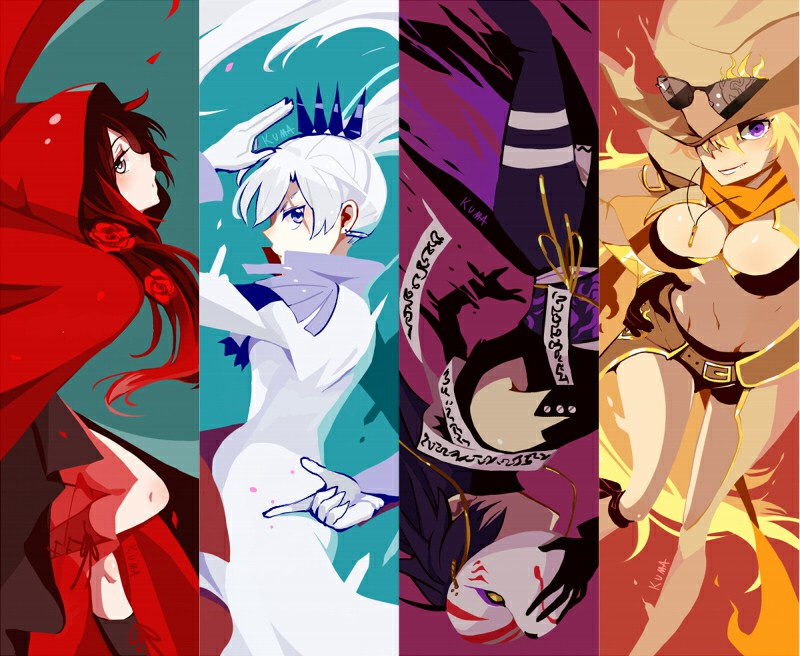
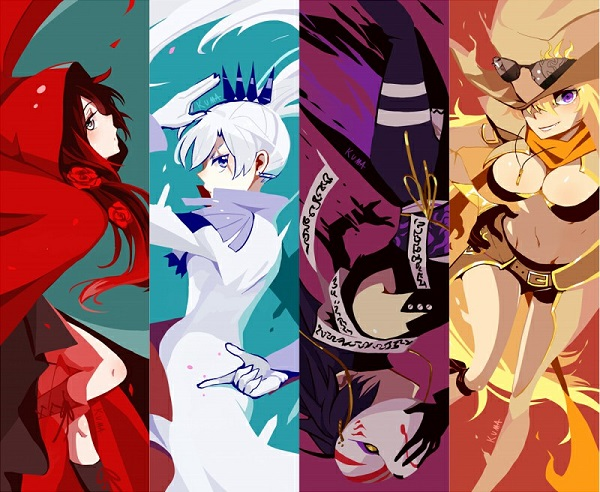
Site updated: 2020-03-11 23:21:26

diff --git a/index.html b/index.html
@@ -27,7 +27,7 @@
 <meta name="twitter:card" content="summary">
   <link rel="stylesheet" href="https://cdn.jsdelivr.net/combine/gh/nexmoe/nexmoe.github.io@latest/css/style.css,npm/highlight.js@9.15.8/styles/atom-one-dark.css,gh/nexmoe/nexmoe.github.io@latest/lib/mdui_043tiny/css/mdui.css,gh/nexmoe/nexmoe.github.io@latest/lib/iconfont/iconfont.css" crossorigin>
   
-  <!--<link rel="stylesheet" href="/css/style.css?v=1583939131281">-->
+  <!--<link rel="stylesheet" href="/css/style.css?v=1583940027128">-->
 
    
     <style>
@@ -243,8 +243,8 @@
     <div class="nexmoe-post">
         <a href="/archives/af935060.html">
             
-                <div class="nexmoe-post-cover mdui-ripple" style="padding-bottom: 56.25%;"> 
-                    <img data-src="/img/0002.png" data-sizes="auto" alt="测试页面" class="lazyload">
+                <div class="nexmoe-post-cover mdui-ripple" style="padding-bottom: 56.2037037037037%;"> 
+                    <img data-src="/img/0002.jpg" data-sizes="auto" alt="测试页面" class="lazyload">
                     <h1>测试页面</h1>
                 </div>
             
@@ -322,7 +322,7 @@
   </div>
   <script src="https://cdn.jsdelivr.net/combine/npm/lazysizes@5.1.0/lazysizes.min.js,gh/highlightjs/cdn-release@9.15.8/build/highlight.min.js,npm/mdui@0.4.3/dist/js/mdui.min.js,gh/nexmoe/nexmoe.github.io@latest/js/app.js"></script>
 <script>hljs.initHighlightingOnLoad();</script>
-<!--<script src="/js/app.js?v=1583939131283"></script>-->
+<!--<script src="/js/app.js?v=1583940027131"></script>-->
 
 
     <script src="https://cdn.jsdelivr.net/gh/xtaodada/xtaodada.github.io@0.0.2/copy.js"></script>

diff --git a/archives/af935060.html b/archives/af935060.html
@@ -26,7 +26,7 @@
 <meta name="twitter:card" content="summary">
   <link rel="stylesheet" href="https://cdn.jsdelivr.net/combine/gh/nexmoe/nexmoe.github.io@latest/css/style.css,npm/highlight.js@9.15.8/styles/atom-one-dark.css,gh/nexmoe/nexmoe.github.io@latest/lib/mdui_043tiny/css/mdui.css,gh/nexmoe/nexmoe.github.io@latest/lib/iconfont/iconfont.css" crossorigin>
   
-  <!--<link rel="stylesheet" href="/css/style.css?v=1583939131255">-->
+  <!--<link rel="stylesheet" href="/css/style.css?v=1583940027104">-->
 
    
     <style>
@@ -239,8 +239,8 @@
     <div class="nexmoe-primary">
         <div class="nexmoe-post">
   
-      <div class="nexmoe-post-cover" style="padding-bottom: 56.25%;"> 
-          <img data-src="/img/0002.png" data-sizes="auto" alt="测试页面" class="lazyload">
+      <div class="nexmoe-post-cover" style="padding-bottom: 56.2037037037037%;"> 
+          <img data-src="/img/0002.jpg" data-sizes="auto" alt="测试页面" class="lazyload">
           <h1>测试页面</h1>
       </div>
   
@@ -310,7 +310,7 @@
   </div>
   <script src="https://cdn.jsdelivr.net/combine/npm/lazysizes@5.1.0/lazysizes.min.js,gh/highlightjs/cdn-release@9.15.8/build/highlight.min.js,npm/mdui@0.4.3/dist/js/mdui.min.js,gh/nexmoe/nexmoe.github.io@latest/js/app.js"></script>
 <script>hljs.initHighlightingOnLoad();</script>
-<!--<script src="/js/app.js?v=1583939131262"></script>-->
+<!--<script src="/js/app.js?v=1583940027106"></script>-->
 
 
     <script src="https://cdn.jsdelivr.net/gh/xtaodada/xtaodada.github.io@0.0.2/copy.js"></script>

diff --git a/archives/e5dfb256.html b/archives/e5dfb256.html
@@ -28,7 +28,7 @@
 <meta name="twitter:image" content="https://xiaopi3.gitee.io/archives/e5dfb256/rwby.jpg">
   <link rel="stylesheet" href="https://cdn.jsdelivr.net/combine/gh/nexmoe/nexmoe.github.io@latest/css/style.css,npm/highlight.js@9.15.8/styles/atom-one-dark.css,gh/nexmoe/nexmoe.github.io@latest/lib/mdui_043tiny/css/mdui.css,gh/nexmoe/nexmoe.github.io@latest/lib/iconfont/iconfont.css" crossorigin>
   
-  <!--<link rel="stylesheet" href="/css/style.css?v=1583939131265">-->
+  <!--<link rel="stylesheet" href="/css/style.css?v=1583940027111">-->
 
    
     <style>
@@ -375,7 +375,7 @@ public class QuickController{
   </div>
   <script src="https://cdn.jsdelivr.net/combine/npm/lazysizes@5.1.0/lazysizes.min.js,gh/highlightjs/cdn-release@9.15.8/build/highlight.min.js,npm/mdui@0.4.3/dist/js/mdui.min.js,gh/nexmoe/nexmoe.github.io@latest/js/app.js"></script>
 <script>hljs.initHighlightingOnLoad();</script>
-<!--<script src="/js/app.js?v=1583939131267"></script>-->
+<!--<script src="/js/app.js?v=1583940027114"></script>-->
 
 
     <script src="https://cdn.jsdelivr.net/gh/xtaodada/xtaodada.github.io@0.0.2/copy.js"></script>

diff --git a/PY.html b/PY.html
@@ -31,7 +31,7 @@
 <meta name="twitter:image" content="https://cdn.jsdelivr.net/gh/ritcheeqing/resources@latest/images/avatar.png">
   <link rel="stylesheet" href="https://cdn.jsdelivr.net/combine/gh/nexmoe/nexmoe.github.io@latest/css/style.css,npm/highlight.js@9.15.8/styles/atom-one-dark.css,gh/nexmoe/nexmoe.github.io@latest/lib/mdui_043tiny/css/mdui.css,gh/nexmoe/nexmoe.github.io@latest/lib/iconfont/iconfont.css" crossorigin>
   
-  <!--<link rel="stylesheet" href="/css/style.css?v=1583939131251">-->
+  <!--<link rel="stylesheet" href="/css/style.css?v=1583940027101">-->
 
    
     <style>
@@ -330,7 +330,7 @@
   </div>
   <script src="https://cdn.jsdelivr.net/combine/npm/lazysizes@5.1.0/lazysizes.min.js,gh/highlightjs/cdn-release@9.15.8/build/highlight.min.js,npm/mdui@0.4.3/dist/js/mdui.min.js,gh/nexmoe/nexmoe.github.io@latest/js/app.js"></script>
 <script>hljs.initHighlightingOnLoad();</script>
-<!--<script src="/js/app.js?v=1583939131254"></script>-->
+<!--<script src="/js/app.js?v=1583940027103"></script>-->
 
 
     <script src="https://cdn.jsdelivr.net/gh/xtaodada/xtaodada.github.io@0.0.2/copy.js"></script>

diff --git a/about.html b/about.html
@@ -29,7 +29,7 @@
 <meta name="twitter:card" content="summary">
   <link rel="stylesheet" href="https://cdn.jsdelivr.net/combine/gh/nexmoe/nexmoe.github.io@latest/css/style.css,npm/highlight.js@9.15.8/styles/atom-one-dark.css,gh/nexmoe/nexmoe.github.io@latest/lib/mdui_043tiny/css/mdui.css,gh/nexmoe/nexmoe.github.io@latest/lib/iconfont/iconfont.css" crossorigin>
   
-  <!--<link rel="stylesheet" href="/css/style.css?v=1583939131242">-->
+  <!--<link rel="stylesheet" href="/css/style.css?v=1583940027091">-->
 
    
     <style>
@@ -311,7 +311,7 @@
   </div>
   <script src="https://cdn.jsdelivr.net/combine/npm/lazysizes@5.1.0/lazysizes.min.js,gh/highlightjs/cdn-release@9.15.8/build/highlight.min.js,npm/mdui@0.4.3/dist/js/mdui.min.js,gh/nexmoe/nexmoe.github.io@latest/js/app.js"></script>
 <script>hljs.initHighlightingOnLoad();</script>
-<!--<script src="/js/app.js?v=1583939131249"></script>-->
+<!--<script src="/js/app.js?v=1583940027100"></script>-->
 
 
     <script src="https://cdn.jsdelivr.net/gh/xtaodada/xtaodada.github.io@0.0.2/copy.js"></script>

diff --git a/archives/2020/03/index.html b/archives/2020/03/index.html
@@ -27,7 +27,7 @@
 <meta name="twitter:card" content="summary">
   <link rel="stylesheet" href="https://cdn.jsdelivr.net/combine/gh/nexmoe/nexmoe.github.io@latest/css/style.css,npm/highlight.js@9.15.8/styles/atom-one-dark.css,gh/nexmoe/nexmoe.github.io@latest/lib/mdui_043tiny/css/mdui.css,gh/nexmoe/nexmoe.github.io@latest/lib/iconfont/iconfont.css" crossorigin>
   
-  <!--<link rel="stylesheet" href="/css/style.css?v=1583939131278">-->
+  <!--<link rel="stylesheet" href="/css/style.css?v=1583940027125">-->
 
    
     <style>
@@ -297,7 +297,7 @@
   </div>
   <script src="https://cdn.jsdelivr.net/combine/npm/lazysizes@5.1.0/lazysizes.min.js,gh/highlightjs/cdn-release@9.15.8/build/highlight.min.js,npm/mdui@0.4.3/dist/js/mdui.min.js,gh/nexmoe/nexmoe.github.io@latest/js/app.js"></script>
 <script>hljs.initHighlightingOnLoad();</script>
-<!--<script src="/js/app.js?v=1583939131280"></script>-->
+<!--<script src="/js/app.js?v=1583940027127"></script>-->
 
 
     <script src="https://cdn.jsdelivr.net/gh/xtaodada/xtaodada.github.io@0.0.2/copy.js"></script>

diff --git a/archives/2020/index.html b/archives/2020/index.html
@@ -27,7 +27,7 @@
 <meta name="twitter:card" content="summary">
   <link rel="stylesheet" href="https://cdn.jsdelivr.net/combine/gh/nexmoe/nexmoe.github.io@latest/css/style.css,npm/highlight.js@9.15.8/styles/atom-one-dark.css,gh/nexmoe/nexmoe.github.io@latest/lib/mdui_043tiny/css/mdui.css,gh/nexmoe/nexmoe.github.io@latest/lib/iconfont/iconfont.css" crossorigin>
   
-  <!--<link rel="stylesheet" href="/css/style.css?v=1583939131274">-->
+  <!--<link rel="stylesheet" href="/css/style.css?v=1583940027121">-->
 
    
     <style>
@@ -297,7 +297,7 @@
   </div>
   <script src="https://cdn.jsdelivr.net/combine/npm/lazysizes@5.1.0/lazysizes.min.js,gh/highlightjs/cdn-release@9.15.8/build/highlight.min.js,npm/mdui@0.4.3/dist/js/mdui.min.js,gh/nexmoe/nexmoe.github.io@latest/js/app.js"></script>
 <script>hljs.initHighlightingOnLoad();</script>
-<!--<script src="/js/app.js?v=1583939131276"></script>-->
+<!--<script src="/js/app.js?v=1583940027123"></script>-->
 
 
     <script src="https://cdn.jsdelivr.net/gh/xtaodada/xtaodada.github.io@0.0.2/copy.js"></script>

diff --git a/archives/4a17b156.html b/archives/4a17b156.html
@@ -26,7 +26,7 @@
 <meta name="twitter:card" content="summary">
   <link rel="stylesheet" href="https://cdn.jsdelivr.net/combine/gh/nexmoe/nexmoe.github.io@latest/css/style.css,npm/highlight.js@9.15.8/styles/atom-one-dark.css,gh/nexmoe/nexmoe.github.io@latest/lib/mdui_043tiny/css/mdui.css,gh/nexmoe/nexmoe.github.io@latest/lib/iconfont/iconfont.css" crossorigin>
   
-  <!--<link rel="stylesheet" href="/css/style.css?v=1583939131268">-->
+  <!--<link rel="stylesheet" href="/css/style.css?v=1583940027115">-->
 
    
     <style>
@@ -318,7 +318,7 @@
   </div>
   <script src="https://cdn.jsdelivr.net/combine/npm/lazysizes@5.1.0/lazysizes.min.js,gh/highlightjs/cdn-release@9.15.8/build/highlight.min.js,npm/mdui@0.4.3/dist/js/mdui.min.js,gh/nexmoe/nexmoe.github.io@latest/js/app.js"></script>
 <script>hljs.initHighlightingOnLoad();</script>
-<!--<script src="/js/app.js?v=1583939131270"></script>-->
+<!--<script src="/js/app.js?v=1583940027117"></script>-->
 
 
     <script src="https://cdn.jsdelivr.net/gh/xtaodada/xtaodada.github.io@0.0.2/copy.js"></script>

diff --git a/archives/index.html b/archives/index.html
@@ -27,7 +27,7 @@
 <meta name="twitter:card" content="summary">
   <link rel="stylesheet" href="https://cdn.jsdelivr.net/combine/gh/nexmoe/nexmoe.github.io@latest/css/style.css,npm/highlight.js@9.15.8/styles/atom-one-dark.css,gh/nexmoe/nexmoe.github.io@latest/lib/mdui_043tiny/css/mdui.css,gh/nexmoe/nexmoe.github.io@latest/lib/iconfont/iconfont.css" crossorigin>
   
-  <!--<link rel="stylesheet" href="/css/style.css?v=1583939131271">-->
+  <!--<link rel="stylesheet" href="/css/style.css?v=1583940027118">-->
 
    
     <style>
@@ -308,7 +308,7 @@
   </div>
   <script src="https://cdn.jsdelivr.net/combine/npm/lazysizes@5.1.0/lazysizes.min.js,gh/highlightjs/cdn-release@9.15.8/build/highlight.min.js,npm/mdui@0.4.3/dist/js/mdui.min.js,gh/nexmoe/nexmoe.github.io@latest/js/app.js"></script>
 <script>hljs.initHighlightingOnLoad();</script>
-<!--<script src="/js/app.js?v=1583939131273"></script>-->
+<!--<script src="/js/app.js?v=1583940027120"></script>-->
 
 
     <script src="https://cdn.jsdelivr.net/gh/xtaodada/xtaodada.github.io@0.0.2/copy.js"></script>

diff --git a/tags/前端技术/index.html b/tags/前端技术/index.html
@@ -27,7 +27,7 @@
 <meta name="twitter:card" content="summary">
   <link rel="stylesheet" href="https://cdn.jsdelivr.net/combine/gh/nexmoe/nexmoe.github.io@latest/css/style.css,npm/highlight.js@9.15.8/styles/atom-one-dark.css,gh/nexmoe/nexmoe.github.io@latest/lib/mdui_043tiny/css/mdui.css,gh/nexmoe/nexmoe.github.io@latest/lib/iconfont/iconfont.css" crossorigin>
   
-  <!--<link rel="stylesheet" href="/css/style.css?v=1583939131283">-->
+  <!--<link rel="stylesheet" href="/css/style.css?v=1583940027131">-->
 
    
     <style>
@@ -304,7 +304,7 @@
   </div>
   <script src="https://cdn.jsdelivr.net/combine/npm/lazysizes@5.1.0/lazysizes.min.js,gh/highlightjs/cdn-release@9.15.8/build/highlight.min.js,npm/mdui@0.4.3/dist/js/mdui.min.js,gh/nexmoe/nexmoe.github.io@latest/js/app.js"></script>
 <script>hljs.initHighlightingOnLoad();</script>
-<!--<script src="/js/app.js?v=1583939131286"></script>-->
+<!--<script src="/js/app.js?v=1583940027134"></script>-->
 
 
     <script src="https://cdn.jsdelivr.net/gh/xtaodada/xtaodada.github.io@0.0.2/copy.js"></script>

diff --git a/tags/测试/index.html b/tags/测试/index.html
@@ -27,7 +27,7 @@
 <meta name="twitter:card" content="summary">
   <link rel="stylesheet" href="https://cdn.jsdelivr.net/combine/gh/nexmoe/nexmoe.github.io@latest/css/style.css,npm/highlight.js@9.15.8/styles/atom-one-dark.css,gh/nexmoe/nexmoe.github.io@latest/lib/mdui_043tiny/css/mdui.css,gh/nexmoe/nexmoe.github.io@latest/lib/iconfont/iconfont.css" crossorigin>
   
-  <!--<link rel="stylesheet" href="/css/style.css?v=1583939131286">-->
+  <!--<link rel="stylesheet" href="/css/style.css?v=1583940027134">-->
 
    
     <style>
@@ -306,7 +306,7 @@
   </div>
   <script src="https://cdn.jsdelivr.net/combine/npm/lazysizes@5.1.0/lazysizes.min.js,gh/highlightjs/cdn-release@9.15.8/build/highlight.min.js,npm/mdui@0.4.3/dist/js/mdui.min.js,gh/nexmoe/nexmoe.github.io@latest/js/app.js"></script>
 <script>hljs.initHighlightingOnLoad();</script>
-<!--<script src="/js/app.js?v=1583939131288"></script>-->
+<!--<script src="/js/app.js?v=1583940027136"></script>-->
 
 
     <script src="https://cdn.jsdelivr.net/gh/xtaodada/xtaodada.github.io@0.0.2/copy.js"></script>
